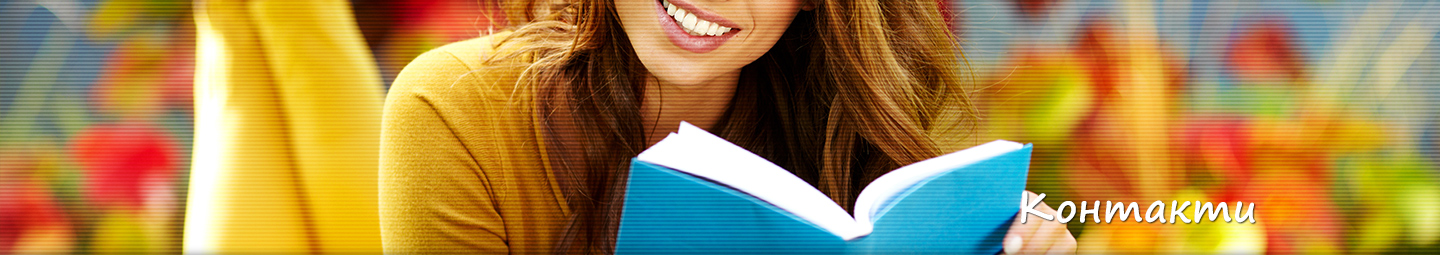
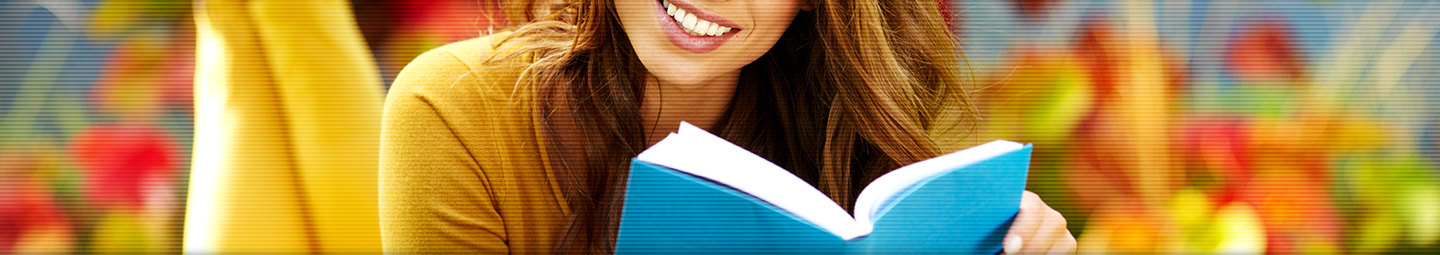
Uni changes for headings images

Changed region(s): [[0.6875, 0.7686, 0.875, 0.8784]]

diff --git a/app/assets/stylesheets/_layout.scss b/app/assets/stylesheets/_layout.scss
@@ -631,3 +631,20 @@ table.uni-item-table{
     cursor: pointer;
   }
 }
+
+
+
+#heading-for-banners{
+  @extend .clearfix;
+  @extend .container;
+  width: 100% !important;
+  h1{
+    width: 100%;
+    text-align: right;
+    margin-bottom: 1em;
+    font-family: 'Segoe Print', Helvetica Neue, italic, cursive;
+    color: #ffffff;
+    position: relative;
+    top: 100px;
+  }
+}
